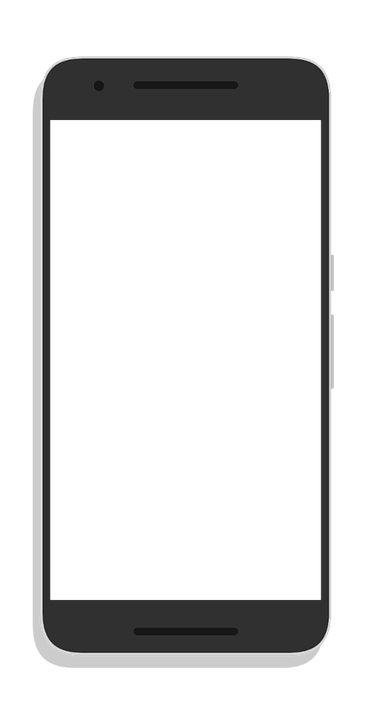
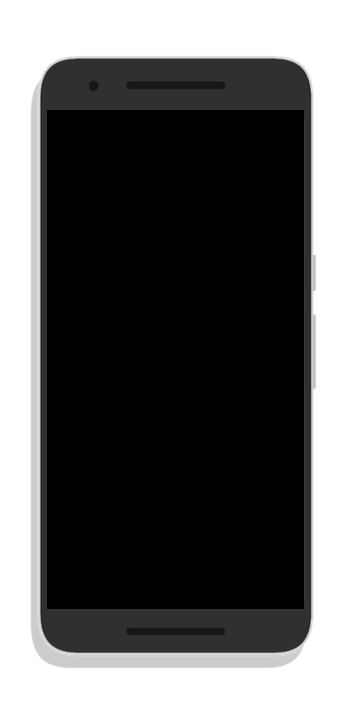
projeto redes sociais, por hora, finalizado

diff --git a/Redes Sociais/style.css b/Redes Sociais/style.css
@@ -7,15 +7,15 @@
 }
 
 html, body{
-    width: 100vw;
+    background: url("imagens/fundo-madeira.jpg") center center no-repeat fixed #000;
+    background-size: cover;
     height: 100vh;
-    background-color: #000;
+    width: 100vw;
 }
 
 main{
     height: 100vh;
     position: relative;
-    background-color: aqua;
 }
 
 section#telefone{
@@ -24,8 +24,35 @@ section#telefone{
     width: 370px;
     height: 720px;
     position: absolute;
-    background-color: bisque;
-    background-repeat: no-repeat;
+    background-repeat: no-repeat;   
     transform: translate(-50%, -50%);
     background-image: url(imagens/phone.png);
+}
+
+iframe#tela{
+    top: 110px;
+    left: 47px;
+    width: 257px;
+    height: 500px;
+    position: relative;
+    background-size: 100% 100%;
+}
+
+section#redes{
+    text-align: right;
+}
+
+section#redes img{
+    width: 60px;
+    border-radius: 50%;
+    margin: 20px 20px 0px 20px;
+    box-shadow: 3px 3px 4px #000;
+}
+
+section#redes img:hover{
+    border-radius: 10px;
+    border: 1px solid #FFF;
+    transform: translate(-10px);
+    box-shadow: 5px 5px 4px #000;
+    transition: transform .3s, box-shadow 0.3s, border-radius 500ms, border 1s;
 }

diff --git a/Redes Sociais/index.html b/Redes Sociais/index.html
@@ -8,10 +8,16 @@
 </head>
 <body>
     <section id="telefone">
-
+        <iframe src="" name="tela" id="tela" frameborder="0">
+            Infelizmente seu navegador não é compatível com Iframe.
+        </iframe>
     </section>
     <section id="redes">
-
+        <a href="0" target="tela"><img src="imagens/icon-power.jpg" alt="Ícone de power"></a><br>
+        <a href="telas/home.html" target="tela"><img src="imagens/icon-home.jpg" alt="Ícone de uma casa"></a><br>
+        <a href="telas/github.html" target="tela"><img src="imagens/logo-github.jpg" alt="Ícone do github, um híbrido de polvo com gato"></a><br>
+        <a href="telas/instagram.html" target="tela"><img src="imagens/logo-instagram.jpg" alt="Ícone do instagram, uma câmera"></a><br>
+        <a href="telas/linkedin.html" target="tela"><img src="imagens/logo-linkedin.jpg" alt=""></a><br>
     </section>
 </body>
 </html>

diff --git a/Redes Sociais/telas/home.html b/Redes Sociais/telas/home.html
@@ -1,0 +1,24 @@
+<!DOCTYPE html>
+<html lang="pt-br">
+<head>
+    <meta charset="UTF-8">
+    <meta name="viewport" content="width=device-width, initial-scale=1.0">
+    <title>home</title>
+    <style>
+        * {
+            margin: 0;
+            padding: 0;
+        }
+
+        body{
+            background: #000 url("../imagens/tela-home.jpg") no-repeat;
+            background-size: 100% 100%;
+            height: 100vh;
+            width: 100vw;
+        }
+    </style>
+</head>
+<body>
+    
+</body>
+</html>

diff --git a/Redes Sociais/telas/instagram.html b/Redes Sociais/telas/instagram.html
@@ -1,0 +1,13 @@
+<!DOCTYPE html>
+<html lang="pt-br">
+<head>
+    <meta charset="UTF-8">
+    <meta name="viewport" content="width=device-width, initial-scale=1.0">
+    <title>Github</title>
+    <link rel="stylesheet" href="telas/social.css">
+</head>
+<body>
+    <img src="../imagens/tela-instagram.jpeg" alt="tela do perfil de Adrian J Quindeler no github">
+    <a href="https://www.instagram.com/adrian_jq/profilecard/?igsh=dnUxNmcxOHRwc2xk" target="_blank">Acesse</a>
+</body>
+</html>

diff --git a/Redes Sociais/telas/linkedin.html b/Redes Sociais/telas/linkedin.html
@@ -1,0 +1,13 @@
+<!DOCTYPE html>
+<html lang="pt-br">
+<head>
+    <meta charset="UTF-8">
+    <meta name="viewport" content="width=device-width, initial-scale=1.0">
+    <title>Github</title>
+    <link rel="stylesheet" href="telas/social.css">
+</head>
+<body>
+    <img src="../imagens/tela-linkedin.jpeg" alt="tela do perfil de Adrian J Quindeler no github">
+    <a href="https://www.linkedin.com/in/adrian-jansen-quindeler-602337265" target="_blank">Acesse</a>
+</body>
+</html>

diff --git a/Redes Sociais/telas/telas/social.css b/Redes Sociais/telas/telas/social.css
@@ -1,0 +1,32 @@
+@charset "UTF-8";
+
+*{
+    margin: 0;
+    padding: 0;
+    font-family: Arial, Helvetica, sans-serif;
+}
+
+::-webkit-scrollbar{
+    width: 0;
+    height: 0;
+}
+
+img{
+    width: 100vw;
+}
+
+a{
+    padding: 20px;
+    color: #FFF;
+    display: block;
+    font-weight: 900;
+    text-align: center;
+    font-size: 20px;
+    text-decoration: none;
+    background-color: #000044;
+}
+
+a:hover{
+    color: #000;
+    background-color: #add8e6;
+}

diff --git a/Redes Sociais/telas/github.html b/Redes Sociais/telas/github.html
@@ -1,0 +1,13 @@
+<!DOCTYPE html>
+<html lang="pt-br">
+<head>
+    <meta charset="UTF-8">
+    <meta name="viewport" content="width=device-width, initial-scale=1.0">
+    <title>Github</title>
+    <link rel="stylesheet" href="telas/social.css">
+</head>
+<body>
+    <img src="../imagens/tela-github.jpeg" alt="tela do perfil de Adrian J Quindeler no github">
+    <a href="https://github.com/Adrian-Quindeler" target="_blank">Acesse</a>
+</body>
+</html>

diff --git a/Readme.md b/Readme.md
@@ -2,3 +2,5 @@
 
 Para ver a história do bugdroid, [clique aqui](https://adrian-quindeler.github.io/Aprendizado-HTML-CSS/Bugdroid).       
 Para ver o Cordel moderno, [clique aqui](https://adrian-quindeler.github.io/Aprendizado-HTML-CSS/Cordel%20Moderno).
+
+Para ver o projeto com minhas Redes Sociais, [clique aqui](https://adrian-quindeler.github.io/Aprendizado-HTML-CSS/Redes%20Sociais).
